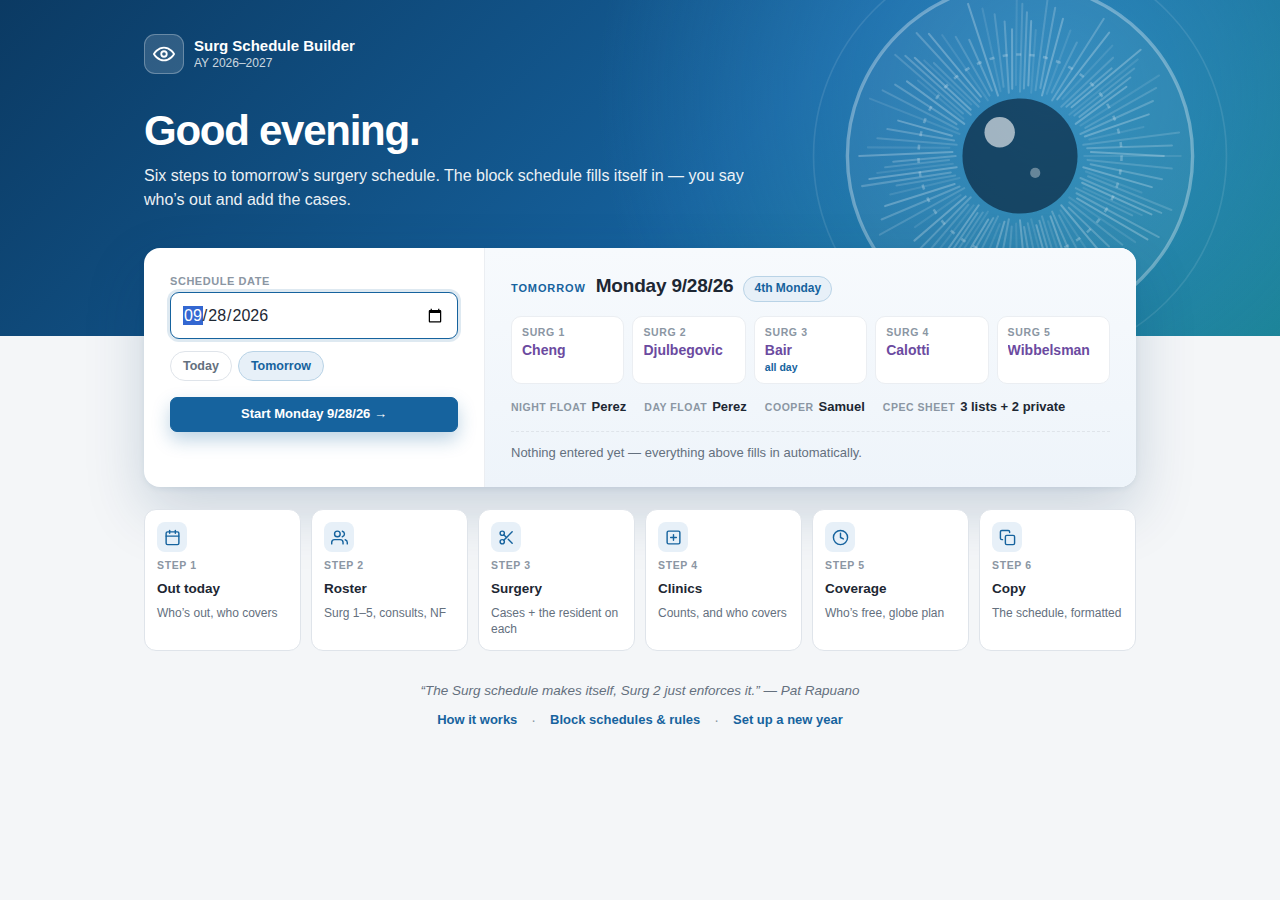
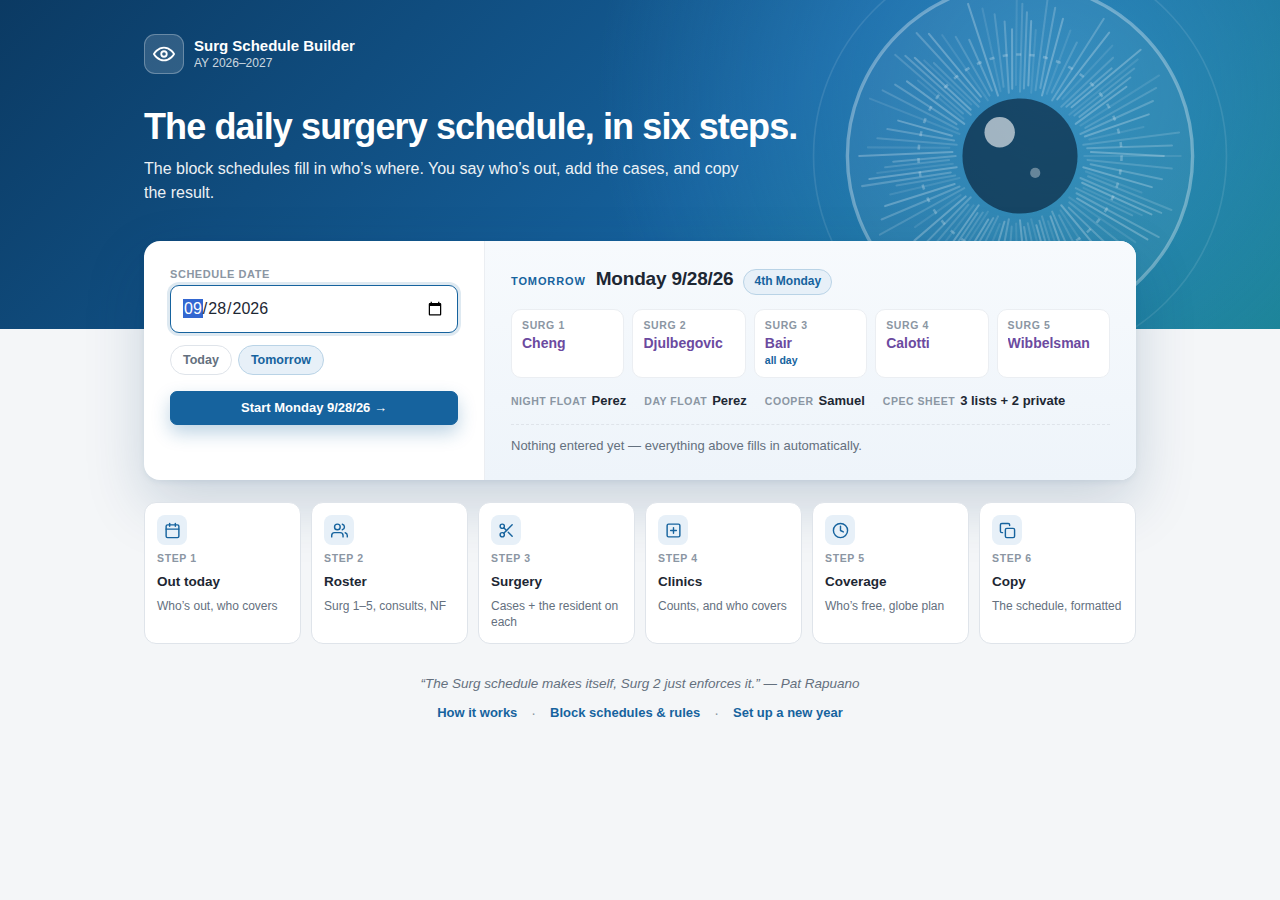
Landing page: plain headline instead of a greeting
Replaces the time-of-day greeting with a statement of what the page is for
("The daily surgery schedule, in six steps.") and removes the greeting
logic. Headline fits one line on desktop; balanced wrapping on phones.

Claude-Session: https://claude.ai/code/session_01TP7cushasK2TEBMuxGSy3Q

diff --git a/dist/surg-schedule.html b/dist/surg-schedule.html
@@ -181,8 +181,8 @@ body.home-active .home-view { display: block; min-height: 100vh; }
 .home-brand-text { display: flex; flex-direction: column; line-height: 1.25; }
 .home-brand-title { font-weight: 700; font-size: 15px; }
 .home-brand-sub { font-size: 12px; opacity: 0.78; }
-.home-greeting { font-size: 42px; font-weight: 800; letter-spacing: -0.03em; line-height: 1.1; margin: 34px 0 10px; }
-.home-tagline { font-size: 16px; line-height: 1.5; max-width: 600px; opacity: 0.92; }
+.home-greeting { font-size: 36px; font-weight: 800; letter-spacing: -0.025em; line-height: 1.15; margin: 32px 0 10px; max-width: 780px; text-wrap: balance; }
+.home-tagline { font-size: 16px; line-height: 1.5; max-width: 600px; opacity: 0.92; text-wrap: pretty; }
 
 .home-body { position: relative; max-width: 1040px; margin: -88px auto 0; padding: 0 24px 44px; }
 
@@ -307,7 +307,7 @@ body.home-active .home-view { display: block; min-height: 100vh; }
 @media (max-width: 560px) {
   .home-hero { padding: 24px 12px 98px; }
   .home-hero-inner { padding: 0 4px; }
-  .home-greeting { font-size: 31px; margin-top: 24px; }
+  .home-greeting { font-size: 27px; margin-top: 22px; }
   .home-tagline { font-size: 14.5px; }
   .home-iris { width: 280px; height: 280px; right: -96px; top: -40px; opacity: 0.6; }
   .home-body { padding: 0 12px 34px; margin-top: -74px; }
@@ -1268,8 +1268,8 @@ select.picker { max-width: 280px; min-width: 150px; }
           <span class="home-brand-sub" id="homeAy"></span>
         </span>
       </div>
-      <h1 class="home-greeting" id="homeGreeting">Welcome back.</h1>
-      <p class="home-tagline">Six steps to tomorrow’s surgery schedule. The block schedule fills itself in — you say who’s out and add the cases.</p>
+      <h1 class="home-greeting">The daily surgery schedule, in six steps.</h1>
+      <p class="home-tagline">The block schedules fill in who’s where. You say who’s out, add the cases, and copy the result.</p>
     </div>
   </section>
 
@@ -7926,7 +7926,7 @@ if (typeof module !== 'undefined' && module.exports) module.exports = SCHED_DATA
       .sort();
   }
 
-  // The landing page: a greeting, the date picker with quick dates, a live
+  // The landing page: what it is for, the date picker with quick dates, a live
   // preview of the chosen day (straight from the block schedule, plus the
   // saved draft's progress), the six steps, and recent days.
 
@@ -7941,14 +7941,6 @@ if (typeof module !== 'undefined' && module.exports) module.exports = SCHED_DATA
     if (iso === isoPlus(today, 1)) return 'Tomorrow';
     if (iso === isoPlus(today, -1)) return 'Yesterday';
     return iso < today ? 'Past day' : 'Coming up';
-  }
-
-  function greetingText() {
-    var h = new Date().getHours();
-    if (h < 5) return 'Working late?';
-    if (h < 12) return 'Good morning.';
-    if (h < 17) return 'Good afternoon.';
-    return 'Good evening.';
   }
 
   // What a saved day already holds — for the preview and the recent cards.
@@ -8189,8 +8181,6 @@ if (typeof module !== 'undefined' && module.exports) module.exports = SCHED_DATA
     if (hd && !hd.value) hd.value = tomorrowISO();
     var ay = $('homeAy');
     if (ay) ay.textContent = data().ayLabel || '';
-    var g = $('homeGreeting');
-    if (g) g.textContent = greetingText();
     var q = $('homeQuote');
     if (q) q.textContent = data().quote || '';
     buildIris();

diff --git a/css/style.css b/css/style.css
@@ -174,8 +174,8 @@ body.home-active .home-view { display: block; min-height: 100vh; }
 .home-brand-text { display: flex; flex-direction: column; line-height: 1.25; }
 .home-brand-title { font-weight: 700; font-size: 15px; }
 .home-brand-sub { font-size: 12px; opacity: 0.78; }
-.home-greeting { font-size: 42px; font-weight: 800; letter-spacing: -0.03em; line-height: 1.1; margin: 34px 0 10px; }
-.home-tagline { font-size: 16px; line-height: 1.5; max-width: 600px; opacity: 0.92; }
+.home-greeting { font-size: 36px; font-weight: 800; letter-spacing: -0.025em; line-height: 1.15; margin: 32px 0 10px; max-width: 780px; text-wrap: balance; }
+.home-tagline { font-size: 16px; line-height: 1.5; max-width: 600px; opacity: 0.92; text-wrap: pretty; }
 
 .home-body { position: relative; max-width: 1040px; margin: -88px auto 0; padding: 0 24px 44px; }
 
@@ -300,7 +300,7 @@ body.home-active .home-view { display: block; min-height: 100vh; }
 @media (max-width: 560px) {
   .home-hero { padding: 24px 12px 98px; }
   .home-hero-inner { padding: 0 4px; }
-  .home-greeting { font-size: 31px; margin-top: 24px; }
+  .home-greeting { font-size: 27px; margin-top: 22px; }
   .home-tagline { font-size: 14.5px; }
   .home-iris { width: 280px; height: 280px; right: -96px; top: -40px; opacity: 0.6; }
   .home-body { padding: 0 12px 34px; margin-top: -74px; }

diff --git a/js/app.js b/js/app.js
@@ -3398,7 +3398,7 @@
       .sort();
   }
 
-  // The landing page: a greeting, the date picker with quick dates, a live
+  // The landing page: what it is for, the date picker with quick dates, a live
   // preview of the chosen day (straight from the block schedule, plus the
   // saved draft's progress), the six steps, and recent days.
 
@@ -3413,14 +3413,6 @@
     if (iso === isoPlus(today, 1)) return 'Tomorrow';
     if (iso === isoPlus(today, -1)) return 'Yesterday';
     return iso < today ? 'Past day' : 'Coming up';
-  }
-
-  function greetingText() {
-    var h = new Date().getHours();
-    if (h < 5) return 'Working late?';
-    if (h < 12) return 'Good morning.';
-    if (h < 17) return 'Good afternoon.';
-    return 'Good evening.';
   }
 
   // What a saved day already holds — for the preview and the recent cards.
@@ -3661,8 +3653,6 @@
     if (hd && !hd.value) hd.value = tomorrowISO();
     var ay = $('homeAy');
     if (ay) ay.textContent = data().ayLabel || '';
-    var g = $('homeGreeting');
-    if (g) g.textContent = greetingText();
     var q = $('homeQuote');
     if (q) q.textContent = data().quote || '';
     buildIris();

diff --git a/index.html b/index.html
@@ -21,8 +21,8 @@
           <span class="home-brand-sub" id="homeAy"></span>
         </span>
       </div>
-      <h1 class="home-greeting" id="homeGreeting">Welcome back.</h1>
-      <p class="home-tagline">Six steps to tomorrow’s surgery schedule. The block schedule fills itself in — you say who’s out and add the cases.</p>
+      <h1 class="home-greeting">The daily surgery schedule, in six steps.</h1>
+      <p class="home-tagline">The block schedules fill in who’s where. You say who’s out, add the cases, and copy the result.</p>
     </div>
   </section>
 

diff --git a/docs/UISPEC6.md b/docs/UISPEC6.md
@@ -17,8 +17,8 @@ how-to's order. Status: **prototype on a branch — not deployed.**
 
 How-to, CPEC sheet, block schedules and Setup moved to a **Library** menu.
 
-**Landing page**: greeting by time of day over a blue hero (inline-SVG iris,
-no external assets); date picker with Today / Tomorrow (/ next weekday)
+**Landing page**: a plain statement of purpose (no greeting) over a blue
+hero (inline-SVG iris, no external assets); date picker with Today / Tomorrow (/ next weekday)
 chips; a live preview of the chosen day straight from the block schedule —
 Surg 1–5 (all-day tags, anyone out flagged), Night Float, Day Float, the
 Cooper senior, CPEC-sheet load, special clinics + dress code — and the saved
